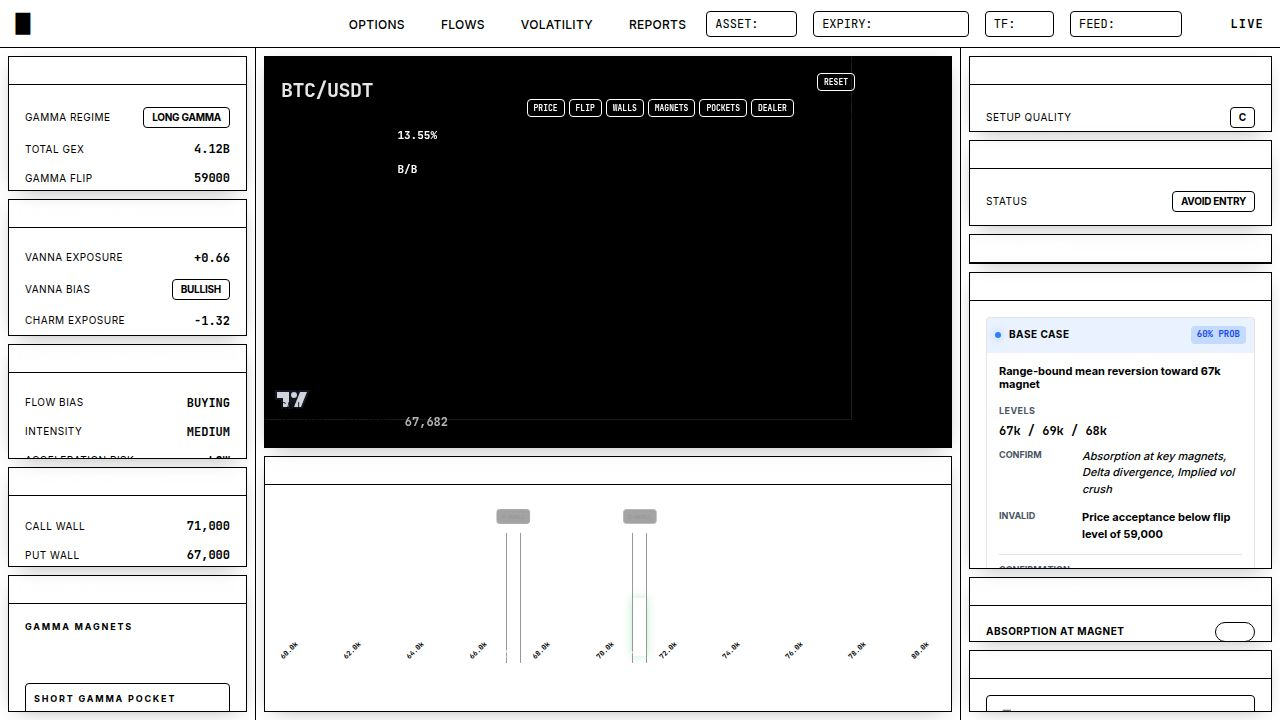
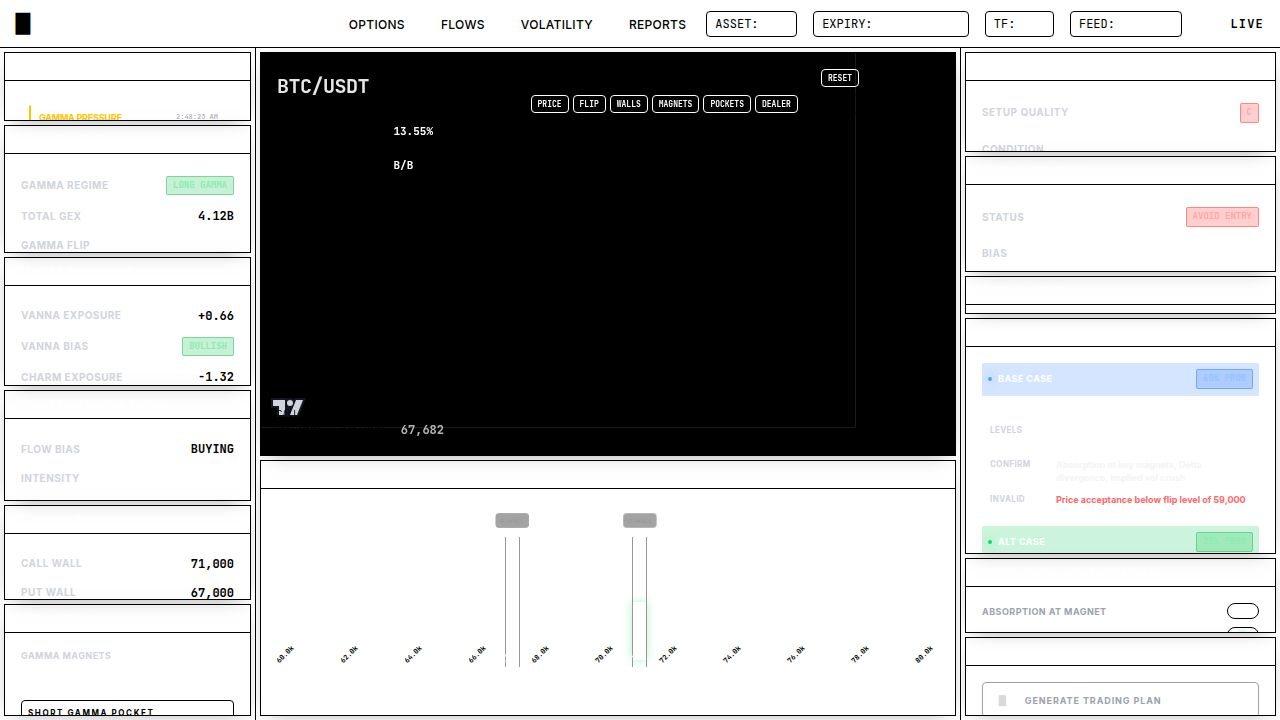
Improve text readability and contrast across the dashboard interface
Enhance dashboard text contrast by adjusting color tokens for labels, secondary text, and muted elements. Refine scenario card visibility with increased background opacity and high-contrast text for thesis and levels. Update alert border and title colors, and improve badge contrast for better legibility.

Replit-Commit-Author: Agent
Replit-Commit-Session-Id: f6c5170a-22e2-47a2-be42-87f4565b3f5b
Replit-Commit-Checkpoint-Type: full_checkpoint
Replit-Commit-Event-Id: dfe659e0-ab78-4258-95f8-cb3b72e1ef05
Replit-Commit-Screenshot-Url: https://storage.googleapis.com/screenshot-production-us-central1/0816ca60-048d-4c47-9f02-2b324f40955c/f6c5170a-22e2-47a2-be42-87f4565b3f5b/qSQMPK2
Replit-Helium-Checkpoint-Created: true

diff --git a/client/src/components/terminal/RightSidebar.tsx b/client/src/components/terminal/RightSidebar.tsx
@@ -500,19 +500,19 @@ OR dealer hedge flow accelerates
               )}
             >
               <div className={cn(
-                "flex justify-between items-center p-1.5 border-b border-white/5",
-                scenario.type === "BASE" ? "bg-blue-500/10" : 
-                scenario.type === "ALT" ? "bg-green-500/10" : 
-                "bg-orange-500/10"
+                "flex justify-between items-center p-1.5 border-b border-white/10",
+                scenario.type === "BASE" ? "bg-blue-500/20" : 
+                scenario.type === "ALT" ? "bg-green-500/20" : 
+                "bg-orange-500/20"
               )}>
                 <div className="flex items-center space-x-1.5">
                   <div className={cn(
                     "w-1 h-1 rounded-full",
-                    scenario.type === "BASE" ? "bg-blue-500 shadow-[0_0_8px_rgba(59,130,246,0.5)]" : 
-                    scenario.type === "ALT" ? "bg-green-500 shadow-[0_0_8px_rgba(34,197,94,0.5)]" : 
-                    "bg-orange-500 shadow-[0_0_8px_rgba(249,115,22,0.5)]"
+                    scenario.type === "BASE" ? "bg-blue-400 shadow-[0_0_8px_rgba(59,130,246,0.5)]" : 
+                    scenario.type === "ALT" ? "bg-green-400 shadow-[0_0_8px_rgba(34,197,94,0.5)]" : 
+                    "bg-orange-400 shadow-[0_0_8px_rgba(249,115,22,0.5)]"
                   )}></div>
-                  <span className="text-[9px] font-bold terminal-text-secondary uppercase tracking-wider">{scenario.type} CASE</span>
+                  <span className="text-[9px] font-bold terminal-text-primary uppercase tracking-wider">{scenario.type} CASE</span>
                 </div>
                 <span className={cn(
                   "terminal-badge",
@@ -537,17 +537,17 @@ OR dealer hedge flow accelerates
                   
                   <div className="grid grid-cols-[60px_1fr] gap-1.5">
                     <span className="terminal-text-label text-[8px]">Confirm</span>
-                    <span className="terminal-text-secondary font-bold italic text-[9px]">{scenario.confirmation.join(", ")}</span>
+                    <span className="terminal-text-secondary font-bold text-[9px]">{scenario.confirmation.join(", ")}</span>
                   </div>
                   <div className="grid grid-cols-[60px_1fr] gap-1.5">
                     <span className="terminal-text-label text-[8px]">Invalid</span>
-                    <span className="text-terminal-negative font-bold text-[9px]">{scenario.invalidation}</span>
+                    <span className="text-red-400 font-bold text-[9px]">{scenario.invalidation}</span>
                   </div>
                 </div>
               </div>
             </div>
           ))}
-          {!scenarios && <div className="text-[10px] text-terminal-muted p-3">Loading scenarios...</div>}
+          {!scenarios && <div className="text-[10px] terminal-text-muted p-3">Loading scenarios...</div>}
         </div>
       </TerminalPanel>
 

diff --git a/client/src/index.css b/client/src/index.css
@@ -71,8 +71,8 @@
   --terminal-bg: 0 0% 4%;      /* #0b0b0b */
   --terminal-panel: 0 0% 7%;   /* #111111 */
   --terminal-border: 0 0% 12%;
-  --terminal-text: 0 0% 88%;
-  --terminal-muted: 0 0% 45%;
+  --terminal-text: 0 0% 95%;   /* Increased from 88% for better base readability */
+  --terminal-muted: 0 0% 65%;  /* Increased from 45% for readable metadata */
   --terminal-positive: 142 71% 45%;
   --terminal-negative: 0 100% 62%; /* #ff3b3b */
   --terminal-accent: 0 100% 62%;   /* #ff3b3b */
@@ -93,18 +93,18 @@
 }
 
 @utility terminal-text-secondary {
-  color: #e5e5e5; /* High-contrast off-white (90%) */
+  color: #f3f4f6; /* High-contrast off-white (gray-100) */
 }
 
 @utility terminal-text-label {
-  color: #a3a3a3; /* Clearly readable gray (60% equivalent but solid) */
+  color: #d1d5db; /* High-contrast gray (gray-300) for labels */
   font-weight: 700;
   text-transform: uppercase;
   letter-spacing: 0.05em;
 }
 
 @utility terminal-text-muted {
-  color: var(--color-terminal-muted); /* Metadata only */
+  color: #9ca3af; /* gray-400 for metadata - still very readable */
 }
 
 @utility terminal-card {
@@ -122,13 +122,13 @@
   cursor: pointer;
 
   &:hover {
-    border-color: #404040;
+    border-color: #4b5563; /* gray-600 for better hover visibility */
   }
 }
 
 @utility terminal-card-selected {
   border-color: var(--color-terminal-accent);
-  box-shadow: 0 0 0 1px rgba(255, 59, 59, 0.3);
+  box-shadow: 0 0 0 1px rgba(255, 59, 59, 0.4);
 }
 
 @utility terminal-badge {
@@ -141,27 +141,27 @@
 }
 
 @utility terminal-badge-info {
-  background-color: rgba(59, 130, 246, 0.15);
-  color: #60a5fa;
-  border: 1px solid rgba(59, 130, 246, 0.3);
+  background-color: rgba(59, 130, 246, 0.25);
+  color: #93c5fd; /* blue-300 for readability */
+  border: 1px solid rgba(59, 130, 246, 0.5);
 }
 
 @utility terminal-badge-success {
-  background-color: rgba(34, 197, 94, 0.15);
-  color: #4ade80;
-  border: 1px solid rgba(34, 197, 94, 0.3);
+  background-color: rgba(34, 197, 94, 0.25);
+  color: #86efac; /* green-300 for readability */
+  border: 1px solid rgba(34, 197, 94, 0.5);
 }
 
 @utility terminal-badge-warning {
-  background-color: rgba(234, 179, 8, 0.15);
-  color: #eab308;
-  border: 1px solid rgba(234, 179, 8, 0.3);
+  background-color: rgba(234, 179, 8, 0.25);
+  color: #fde047; /* yellow-300 for readability */
+  border: 1px solid rgba(234, 179, 8, 0.5);
 }
 
 @utility terminal-badge-error {
-  background-color: rgba(255, 59, 59, 0.15);
-  color: #ff3b3b;
-  border: 1px solid rgba(255, 59, 59, 0.3);
+  background-color: rgba(255, 59, 59, 0.25);
+  color: #fca5a5; /* red-300 for readability */
+  border: 1px solid rgba(255, 59, 59, 0.5);
 }
 
 /* Scrollbar styling */

diff --git a/client/src/components/terminal/LeftSidebar.tsx b/client/src/components/terminal/LeftSidebar.tsx
@@ -101,7 +101,7 @@ export function LeftSidebar() {
       <TerminalPanel title="ALERT CENTER">
         <div className="p-2 space-y-2">
           {alerts.length === 0 ? (
-            <div className="py-3 px-2 border border-dashed border-white/10 rounded-sm text-center bg-terminal-panel/30">
+            <div className="py-3 px-2 border border-dashed border-white/20 rounded-sm text-center bg-terminal-panel/30">
               <div className="terminal-text-label mb-1 text-[9px]">NO ACTIVE ALERTS</div>
               <div className="text-[9px] terminal-text-muted leading-tight">System monitoring flow conditions...</div>
             </div>
@@ -111,15 +111,15 @@ export function LeftSidebar() {
                 key={alert.id} 
                 className={cn(
                   "p-2 terminal-card border-l-2",
-                  alert.type === "warning" ? "border-l-yellow-500" : 
-                  alert.type === "error" ? "border-l-terminal-negative" : "border-l-blue-500"
+                  alert.type === "warning" ? "border-l-yellow-400" : 
+                  alert.type === "error" ? "border-l-terminal-negative" : "border-l-blue-400"
                 )}
               >
                 <div className="flex justify-between items-start mb-0.5">
                   <span className={cn(
                     "text-[9px] font-bold uppercase tracking-tight leading-none",
-                    alert.type === "warning" ? "text-yellow-500" : 
-                    alert.type === "error" ? "text-terminal-negative" : "text-blue-500"
+                    alert.type === "warning" ? "text-yellow-400" : 
+                    alert.type === "error" ? "text-terminal-negative" : "text-blue-400"
                   )}>{alert.title}</span>
                   <span className="text-[7px] font-mono terminal-text-muted leading-none">{alert.timestamp}</span>
                 </div>
